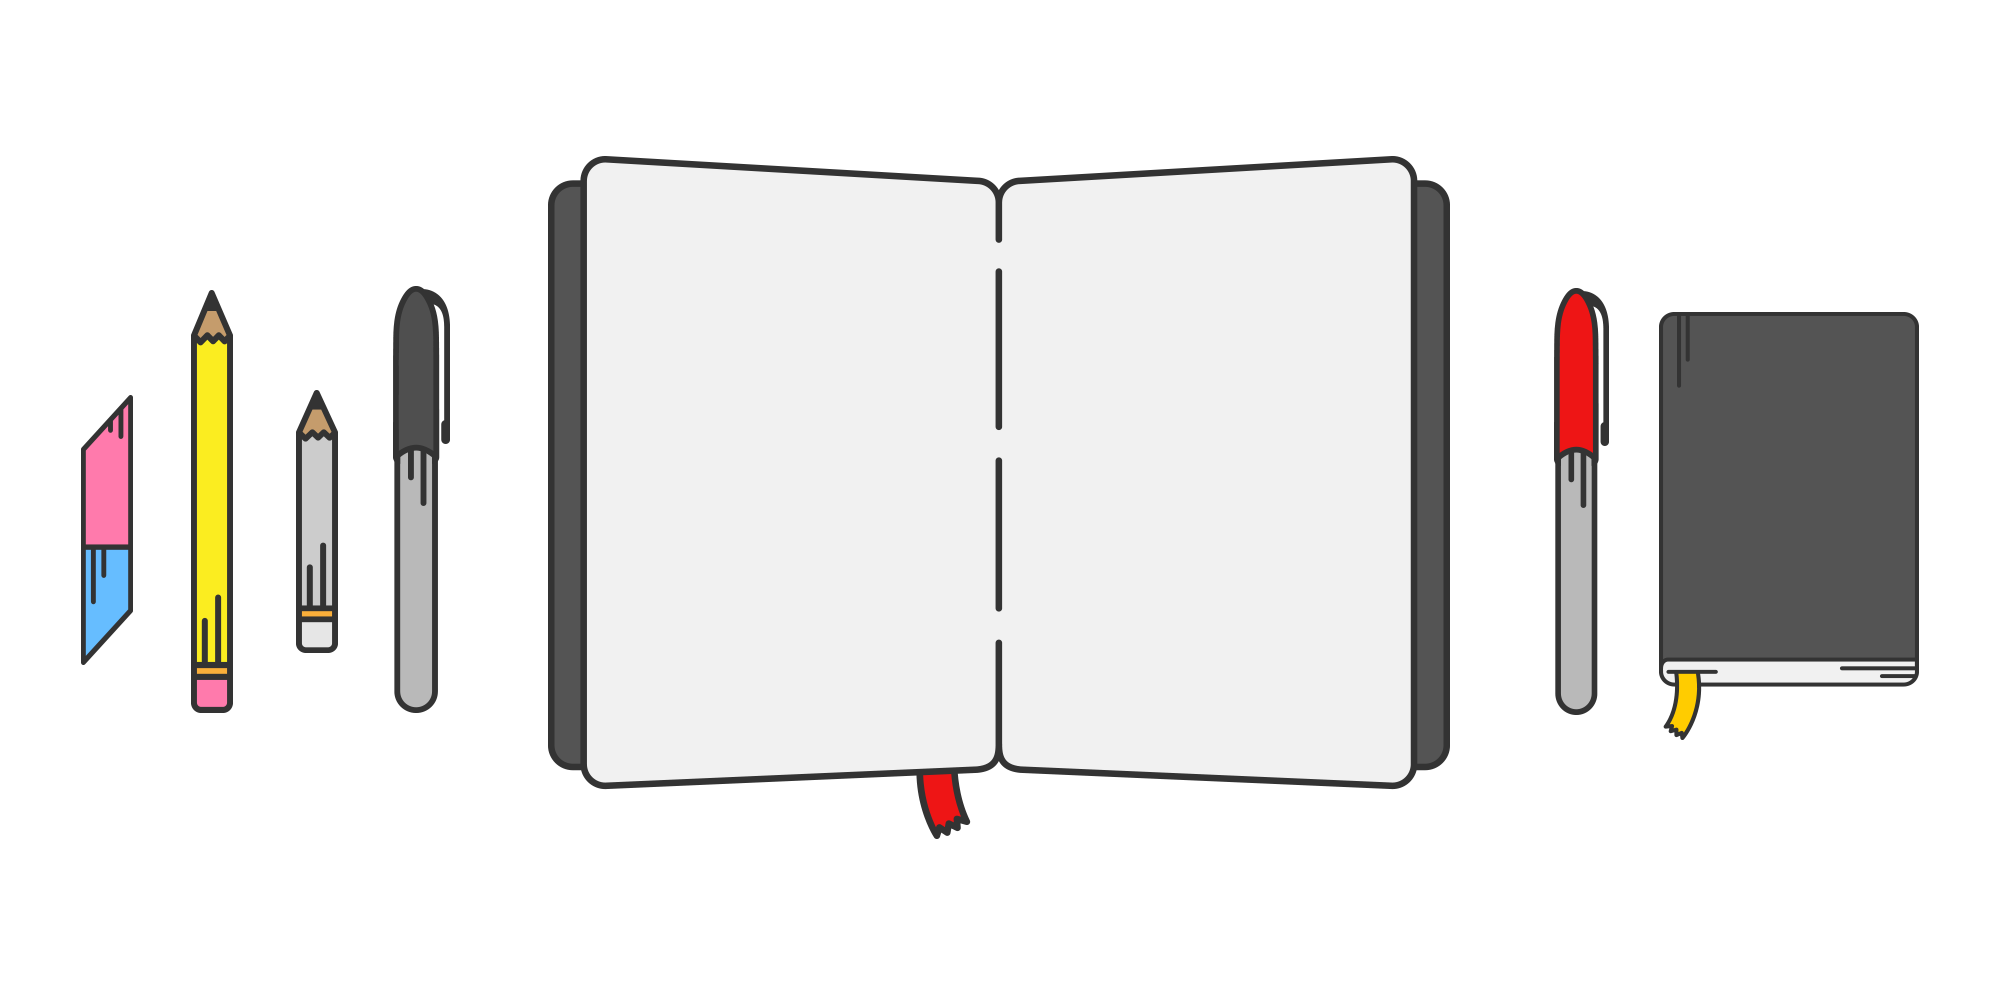
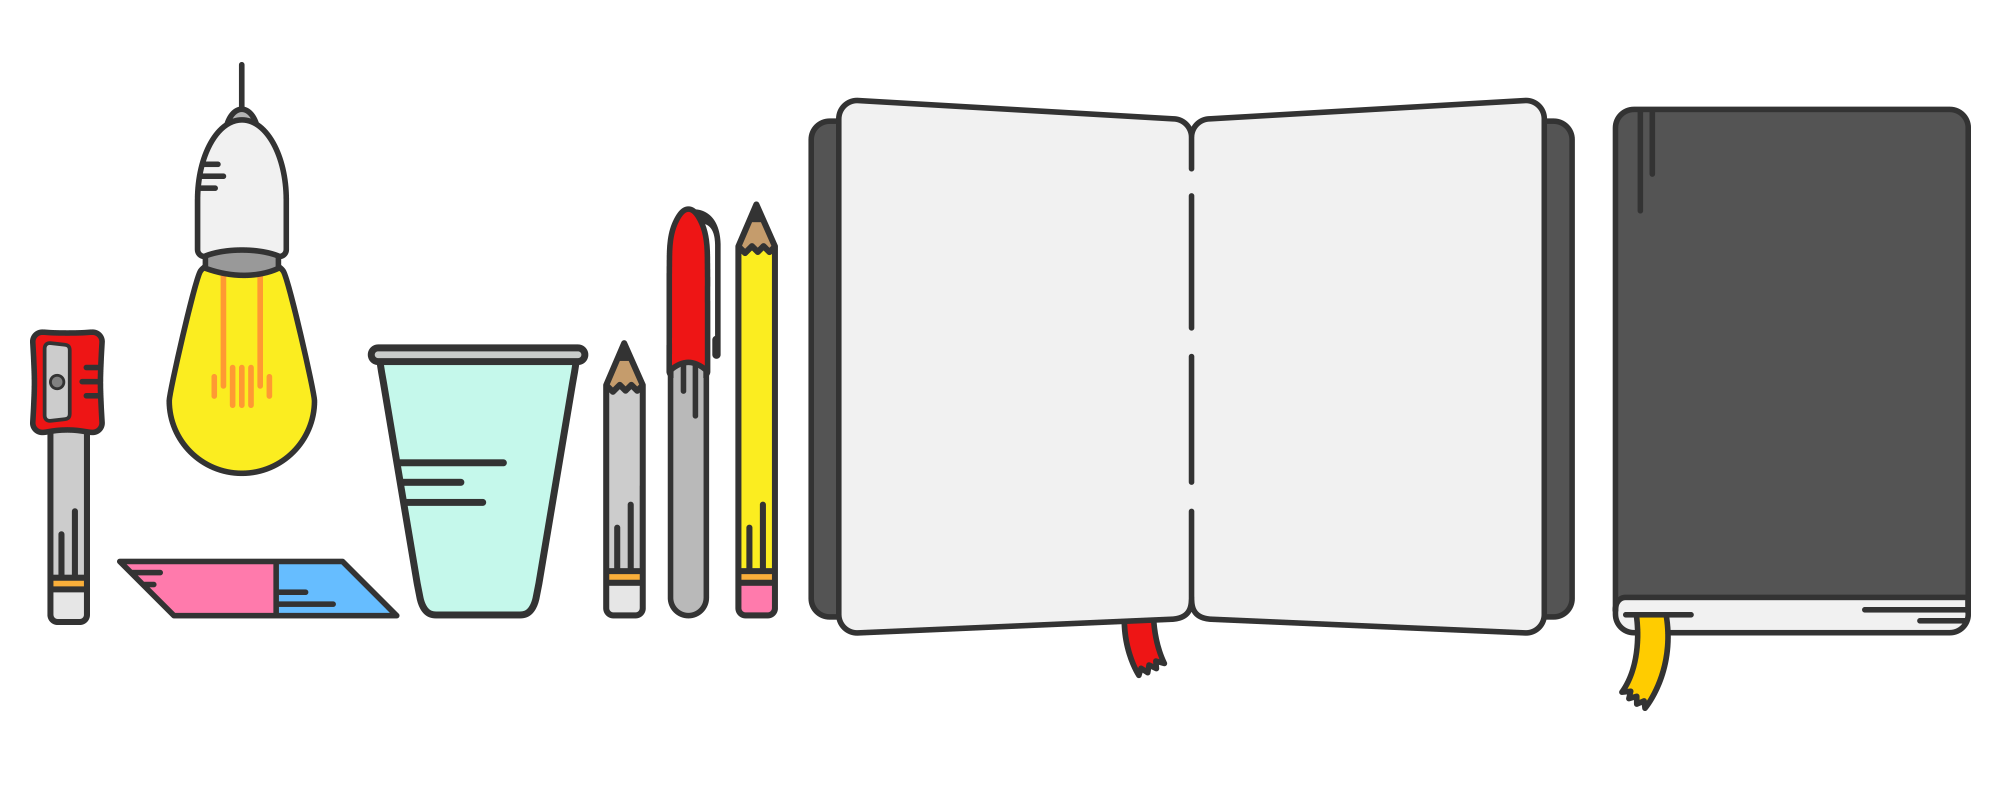
added new homepage image and changed h2 margins

diff --git a/stylesheet.css b/stylesheet.css
@@ -155,8 +155,8 @@ p {
   width: 80%;
   max-width: 600px;
   margin:0 auto;
-  padding-bottom: 46px;
-  margin-bottom: 60px;
+  padding-bottom: 34px;
+  margin-bottom: 50px;
 }
 
 .logo{
@@ -348,7 +348,6 @@ p.intro-subtitle{
 }
 
 p.col1, p.col2 {
-  margin-top:20px;
   margin-bottom: 20px;
 }
 

diff --git a/index.php b/index.php
@@ -8,7 +8,7 @@ $meta_keywords = "modest industries, modest, digital agency, social design, desi
 $intro_title = "This is Modest";
 $intro_description = "Hello. Welcome to Modest Industries.";
 
-$intro_img_url = "equipment.png";
+$intro_img_url = "equipment_v2.png";
 $intro_img_alt = "Welcome to Modest Industries.";
 
 $custom_css = "";
